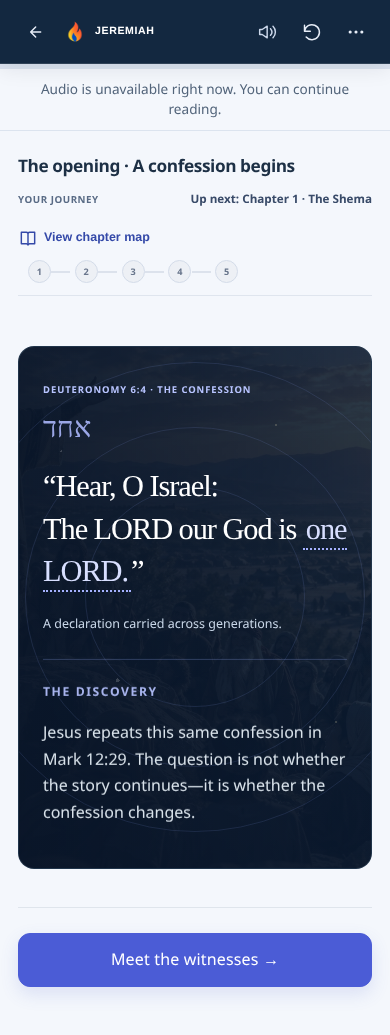
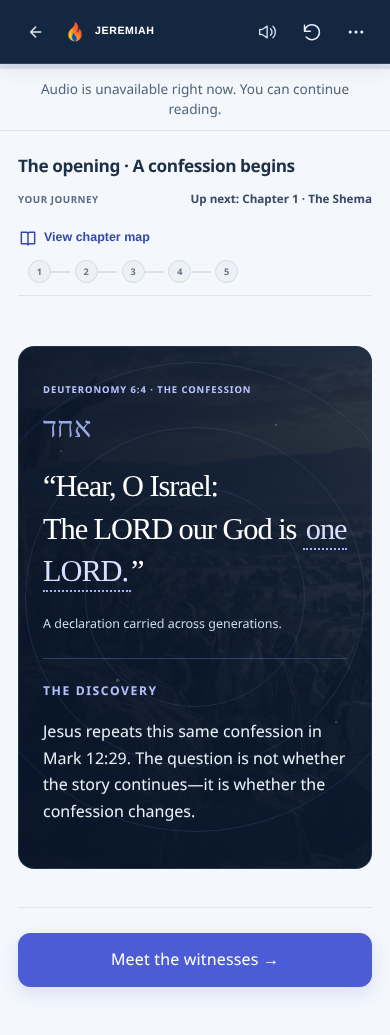
Preserve lesson hash navigation in accessible skip link

Changed region(s): [[0.1231, 0.6493, 0.8615, 0.8039], [0.1538, 0.6493, 0.1846, 0.6802], [0.1231, 0.7729, 0.1538, 0.8039]]

diff --git a/app/src/app/AppShell.jsx b/app/src/app/AppShell.jsx
@@ -36,5 +36,5 @@ export default function AppShell() {
     navigate(route);
   }
   const showBottomNav = MAIN_NAV_ROUTES.includes(currentRoute) || currentRoute === ROUTES.CLASSROOM_STUDY;
-  return <div className={showBottomNav ? "app-shell brand-surface" : "app-shell"}><a className="brand-skip" href="#main-content">Skip to main content</a><main id="main-content" tabIndex={-1} className={showBottomNav ? 'app-main has-nav' : 'app-main'}><AppRouter currentRoute={currentRoute} onNavigate={navigate} /></main>{showBottomNav && <BottomNav currentRoute={currentRoute === ROUTES.CLASSROOM_STUDY ? ROUTES.CLASSROOM : currentRoute} onNavigate={navigateFromNav} />}</div>;
+  return <div className={showBottomNav ? "app-shell brand-surface" : "app-shell"}><a className="brand-skip" href="#main-content" onClick={(event) => { event.preventDefault(); document.getElementById('main-content')?.focus(); }}>Skip to main content</a><main id="main-content" tabIndex={-1} className={showBottomNav ? 'app-main has-nav' : 'app-main'}><AppRouter currentRoute={currentRoute} onNavigate={navigate} /></main>{showBottomNav && <BottomNav currentRoute={currentRoute === ROUTES.CLASSROOM_STUDY ? ROUTES.CLASSROOM : currentRoute} onNavigate={navigateFromNav} />}</div>;
 }

diff --git a/app/src/theme/jeremiahAppBrand.css b/app/src/theme/jeremiahAppBrand.css
@@ -18,8 +18,8 @@
 .brand-flame { display: inline-grid; place-items: center; width: 32px; height: 32px; flex-shrink: 0; vertical-align: middle; }
 .brand-flame img { display: block; width: 100%; height: 100%; object-fit: contain; }
 .brand-flame-fallback { display: grid; place-items: center; width: 100%; height: 100%; font: 800 1.1rem/1 var(--font-body); color: currentColor; }
-.brand-skip { position: fixed; top: 12px; left: 12px; visibility: hidden; padding: 12px 18px; border-radius: 12px; color: #002366; background: white; z-index: 1000; }
-.brand-skip:focus { visibility: visible; }
+.brand-skip { position: fixed; top: 12px; left: 12px; clip-path: inset(50%); width: 1px; height: 1px; overflow: hidden; padding: 0; border-radius: 12px; color: #002366; background: white; z-index: 1000; }
+.brand-skip:focus { clip-path: none; width: auto; height: auto; overflow: visible; padding: 12px 18px; }
 #main-content:focus { outline: none; }
 .brand-surface .ld-page, .brand-surface .br-page { background: var(--brand-page-gradient); }
 .brand-surface .ld-header { border-bottom: 1px solid var(--j-line); padding-bottom: 20px; }

diff --git a/docs/JEREMIAH_BRAND_STAGE2_REVIEW.md b/docs/JEREMIAH_BRAND_STAGE2_REVIEW.md
@@ -67,3 +67,7 @@ JEREMIAH_REVIEW_URL=http://127.0.0.1:4184 node scripts/verify-brand-stage2-brows
 ```
 
 The browser runner uses the review environment’s Playwright, not a new application dependency. Preview deployment and GitHub checks are reported on the draft PR; a local build/screenshot is not evidence of a hosted URL. No merge or production deployment is authorized.
+
+## Hosted review
+
+Draft PR: [#50](https://github.com/jlac3220/jeremiah-ai-rebuild/pull/50), targeting Stage 2. [Branch preview](https://jeremiah-ai-rebuild-git-codex-j-8c43dd-jlace3320-3949s-projects.vercel.app/#pilot), or [Home](https://jeremiah-ai-rebuild-git-codex-j-8c43dd-jlace3320-3949s-projects.vercel.app/#home). Both Vercel integrations and both GitHub CI workflows passed for the initial integration commit. The preview requires owner Vercel sign-in; anonymous requests redirect to the Vercel login screen. Local production-build browser checks are verified; protected hosted app behavior is not claimed. No production, access-protection, or hosting settings changed.
